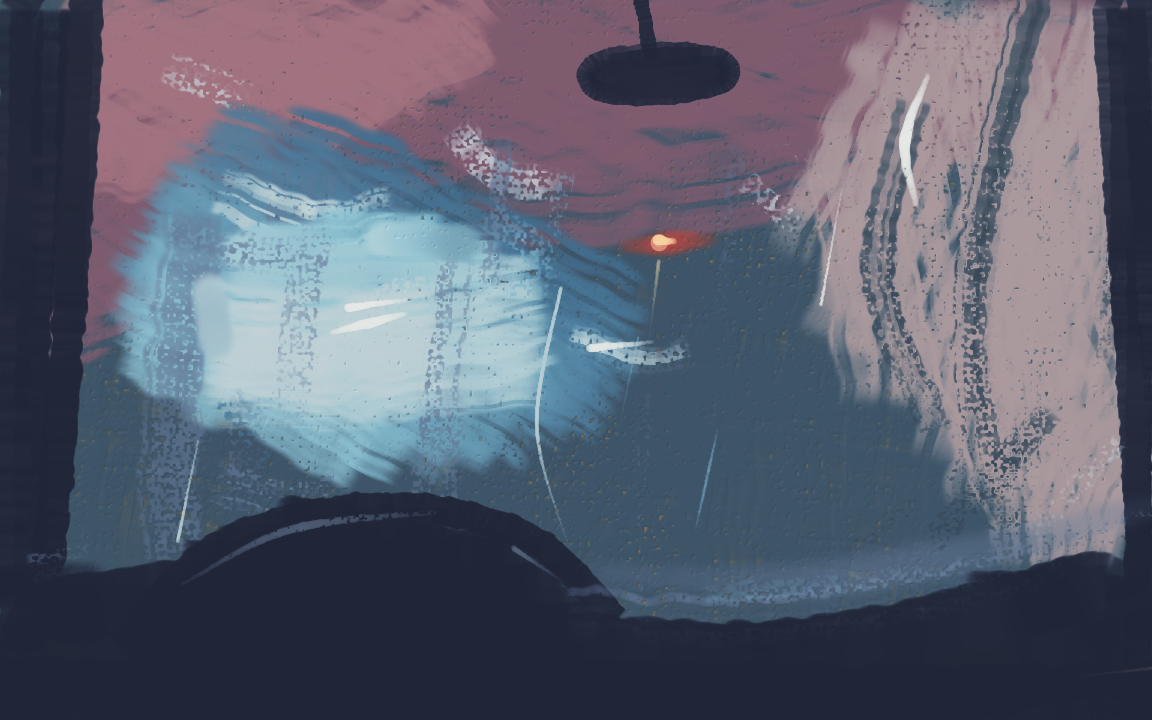
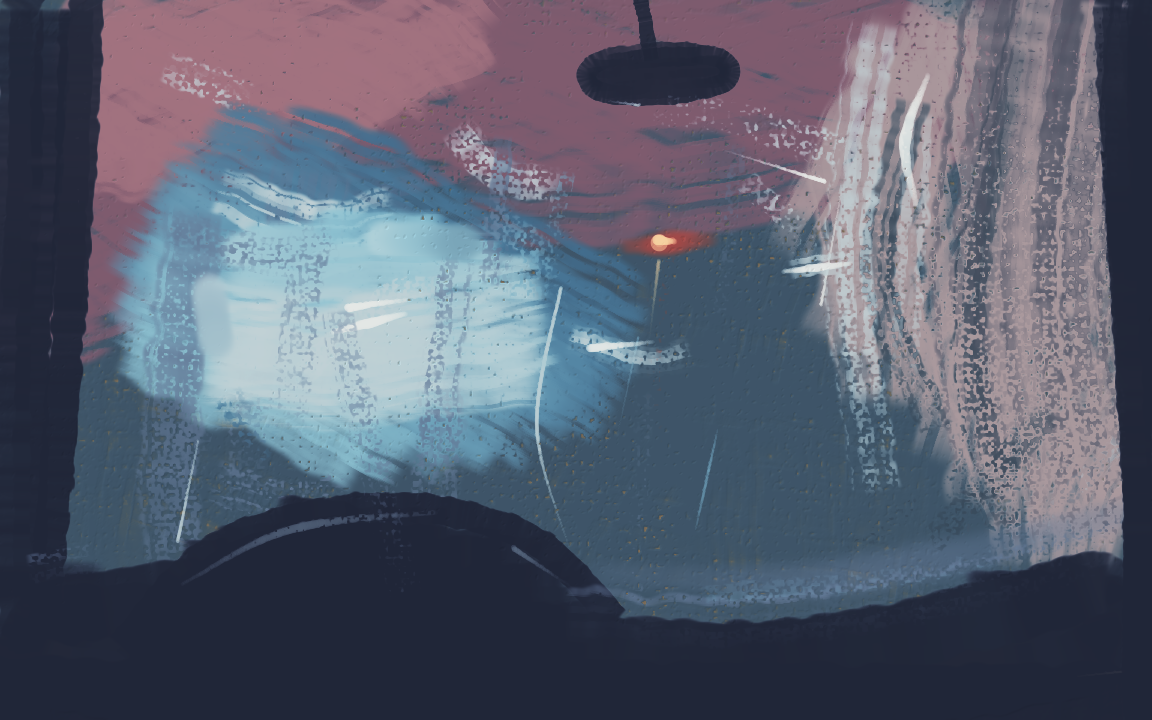
Resume the car wash painting: give the brush form
It stopped at 185 strokes with 115 in hand, having named the brush as its
weakest passage and given it four more marks. Five passes and twenty-one
strokes later it is 206 of 300.

Measured across it, the committed brush read 0.53 0.59 0.58 0.51 0.56 0.60 at
the top and the same flat noise in the middle: a range of 0.09, under the
threshold at which anything reads as a separation. Its light and dark were
distributed as stripes and not as form, which is why it looked like a curtain.

A scumble across the whole mass buried the strip-gaps into a smooth wash, and a
ramp at low opacity and a starved load laid almost nothing. What worked was a
bristle pushed hard, because a comb cannot bury: it leaves the old paint showing
between its streaks however high the opacity goes, which is the one tool property
that lets form go on over texture without replacing it.

compare() then caught what the eye had not. At a 0.22 range the shadow side sat
0.09 from the tunnel behind it and the mass had begun to merge with the glass.
Compressed back to about 0.15, both separations hold. Form is bounded at both
ends, and that is now guide item 8 in SUGGESTIONS.md.

Also: foam thrown off the leading edge so something in the picture moves, a
contact smear so the glass reads as a plane the brush is touching, and one water
sheet that wanders the other way. The outer form pass ran across the right
pillar, so the pillar goes back on top in the same pass.
[…]

diff --git a/paintings/car_wash/p13_form.py b/paintings/car_wash/p13_form.py
@@ -1,0 +1,45 @@
+# The brush was the weakest passage in the finished picture, and there were 115 strokes
+# in hand. Measured across it, the committed canvas read 0.53 0.59 0.58 0.51 0.56 0.60
+# at the top and the same flat noise in the middle: light and dark distributed as
+# stripes, with no form at all. That is why it read as a curtain rather than a cylinder.
+#
+# Two things were tried and thrown away first. A scumble across the whole mass buried
+# the strip-gaps into a smooth wash, and the strips are the best thing here. A ramp at
+# low opacity and a starved load laid almost nothing -- 0.62 to 0.56 across the whole
+# width. What works is a bristle pushed hard: a comb cannot bury, it leaves the old
+# paint showing between its streaks however high the opacity goes, so form can go on
+# over texture without replacing it.
+import numpy as np
+def prof(tag):
+    v = s.canvas.rgb @ np.array([0.2126, 0.7152, 0.0722])
+    v = np.where(v <= 0.0031308, v*12.92, 1.055*np.power(np.maximum(v,1e-9),1/2.4)-0.055)
+    h, w = v.shape
+    for y0, y1, ytag in [(0.05, 0.25, "top"), (0.30, 0.50, "middle"), (0.52, 0.72, "low")]:
+        print(f"  {tag:6s} {ytag:6s} " + " ".join(
+            f"{x:.2f}:{v[int(y0*h):int(y1*h), int(x*w)-12:int(x*w)+12].mean():.2f}"
+            for x in (0.74, 0.78, 0.82, 0.86, 0.90, 0.94)))
+prof("before")
+
+# The turning side. lift_off so each pass is heaviest at the top, where the arch light
+# makes the form read, and trails away at the bottom where the mass is meant to dissolve
+# into the dash -- the low band already ramped the other way and that merge is right.
+for x, op, size in [(0.848, 0.35, 0.046), (0.888, 0.55, 0.046),
+                    (0.926, 0.68, 0.044), (0.966, 0.78, 0.042)]:
+    s.stroke([(x + 0.016, -0.04), (x - 0.018, 0.38), (x + 0.012, 0.74)],
+             "bristle", "brush_sh", size=size, opacity=op, load=0.85, pressure="lift_off")
+
+# The leading edge, the side facing the bloom.
+s.stroke([(0.757, 0.04), (0.737, 0.38), (0.763, 0.68)], "bristle", "foam",
+         size=0.044, opacity=0.52, load=0.85, pressure="swell")
+s.stroke([(0.797, 0.16), (0.783, 0.52)], "bristle", "foam",
+         size=0.030, opacity=0.32, load=0.80, pressure="taper")
+prof("after")
+
+# The outer pass runs to x 0.987 and the right pillar's edge sits at 0.951, so paint has
+# been laid across the pillar. It goes back on top because it is nearer: this is the
+# "keep each mass in its own function and re-run the stack in depth order" repair, and
+# it is why the masses are functions in prelude.py at all.
+s.paint({"shape": pillar_r(), "brush": "flat", "color": "frame", "size": 0.024,
+         "direction": "axis", "density": 1.0, "load": 1.0, "load_falloff": 0.0,
+         "edge": "clean"})
+print(s.look())

diff --git a/paintings/car_wash/p14_recover.py b/paintings/car_wash/p14_recover.py
@@ -1,0 +1,25 @@
+# compare() put the brush at -0.12 against its written value after the form went on, and
+# that is not bookkeeping: the shadow side had come down to 0.41 against a tunnel at
+# 0.32, nine hundredths apart, so the mass was starting to merge with the glass behind
+# it. The form was right and too deep. A ramp only has to clear 0.10 to read as form;
+# past that it spends the mass's separation from what is behind it, which is the more
+# expensive thing. So the range is compressed, not removed -- two bristle passes lifting
+# the shadow side back toward 0.51 and leaving the lit edge where it is.
+import numpy as np
+def prof(tag):
+    v = s.canvas.rgb @ np.array([0.2126, 0.7152, 0.0722])
+    v = np.where(v <= 0.0031308, v*12.92, 1.055*np.power(np.maximum(v,1e-9),1/2.4)-0.055)
+    h, w = v.shape
+    print(f"  {tag:6s} " + " ".join(
+        f"{x:.2f}:{v[int(0.05*h):int(0.50*h), int(x*w)-12:int(x*w)+12].mean():.2f}"
+        for x in (0.74, 0.78, 0.82, 0.86, 0.90, 0.94)))
+prof("before")
+s.stroke([(0.906, -0.04), (0.884, 0.34), (0.910, 0.70)], "bristle", "brush_lt",
+         size=0.050, opacity=0.46, load=0.80, pressure="lift_off")
+s.stroke([(0.962, 0.00), (0.944, 0.36), (0.966, 0.68)], "bristle", "brush_lt",
+         size=0.044, opacity=0.42, load=0.75, pressure="lift_off")
+prof("after")
+s.paint({"shape": pillar_r(), "brush": "flat", "color": "frame", "size": 0.024,
+         "direction": "axis", "density": 1.0, "load": 1.0, "load_falloff": 0.0,
+         "edge": "clean"})
+print(s.compare(PLAN))

diff --git a/paintings/car_wash/p16_contact.py b/paintings/car_wash/p16_contact.py
@@ -1,0 +1,14 @@
+# The picture never said the glass was a plane, or that the brush was touching it --
+# the brush could have been three metres away. Where it presses, foam is smeared flat
+# against the screen: nearer than everything else, so harder-edged and in focus while
+# the mass behind it is not.
+#
+# First attempt was three elongated marks and made four bright horizontal streaks
+# stacked down the leading edge with the throw above them. The contact has to differ in
+# character from the throw, not just in position: the throw is a sweep, this is
+# compressed, so it is short and broad where they are long and thin.
+s.stroke([(0.686, 0.369), (0.733, 0.359)], "bristle", "foam",
+         size=0.026, load=0.80, opacity=0.82, pressure="swell")
+s.stroke([(0.681, 0.377), (0.739, 0.366)], "round_hard", "foam_hi",
+         size=0.008, opacity=0.88, pressure=[0.35, 1.0, 0.25])
+print(s.look())

diff --git a/paintings/car_wash/p15_throw.py b/paintings/car_wash/p15_throw.py
@@ -1,0 +1,13 @@
+# Nothing in this picture was moving: the brush stood beside the glass rather than
+# acting on it. Six small marks were tried here first and vanished at picture scale --
+# being careful, not being quiet. Four bigger ones instead, thrown up into the arch
+# where there is already activity rather than across the quiet passage lower down.
+s.stroke([(0.728, 0.212), (0.648, 0.168), (0.572, 0.152)], "bristle", "foam",
+         size=0.030, load=0.50, opacity=0.72, pressure="lift_off")
+s.stroke([(0.734, 0.352), (0.672, 0.330)], "bristle", "foam",
+         size=0.020, load=0.42, opacity=0.60, pressure="taper")
+s.stroke([(0.716, 0.252), (0.628, 0.208)], "liner", "foam_hi",
+         size=0.0045, pressure=[1.0, 0.12])
+s.stroke([(0.556, 0.146), (0.528, 0.140)], "liner", "foam",
+         size=0.0035, opacity=0.65, pressure="lift_off")
+print(s.look())

diff --git a/paintings/car_wash/prelude.py b/paintings/car_wash/prelude.py
@@ -26,6 +26,7 @@ def mixtures(verbose=False):
     p["frame_lt"] = V(p.mix(cool_black, "burnt_sienna", 0.25), 0.27, n("frame_lt"))
     p["brush_dk"] = V(p.mix(cool_black, "viridian", 0.22), 0.26, n("brush_dk"))
     p["brush_lt"] = V(p.desaturate(magenta, 0.55), 0.62, n("brush_lt"))
+    p["brush_sh"] = V(p.desaturate(p.mix(teal, magenta, 0.30), 0.20), 0.32, n("brush_sh"))
     p["tunnel"]   = V(teal, 0.32, n("tunnel"))          # the wet dark beyond
     p["haze"]     = V(haze, 0.46, n("haze"))            # soap fog on the glass
     p["mag_lo"]   = V(magenta, 0.40, n("mag_lo"))

diff --git a/paintings/car_wash/p17_cross.py b/paintings/car_wash/p17_cross.py
@@ -1,0 +1,7 @@
+# The last of the weaknesses this painting's own notes named: six water sheets all
+# leaning the same way. That is what water on a raked screen does, so the answer is not
+# to re-lay them -- it is one that wanders the other way and crosses them, which is also
+# what water does. One mark, over the bloom's lower edge and out into the dark below it.
+s.stroke([(0.292, 0.436), (0.324, 0.642), (0.352, 0.822)], "bristle", "haze",
+         size=0.030, load=0.60, opacity=0.34, pressure="swell")
+print(s.look())

diff --git a/paintings/car_wash/NOTES.md b/paintings/car_wash/NOTES.md
@@ -9,12 +9,12 @@ side. Everything outside the glass is dissolved; nothing in it has a hard edge e
 the things inside the car.
 
 - Canvas 1152×720, linen, `umber_wash` ground, seed 23.
-- **185 strokes** of a 300 budget, plus one signature mark that did not count.
+- **206 strokes** of a 300 budget, plus one signature mark that did not count.
 - Final painting: `painting.png`. Time-lapse: `painting.gif`.
 - `prelude.py` holds the palette, the masses as shapes, and the written value plan;
-  `p1_far.py` … `p12_sign.py` are the painting in order. Against a fresh
+  `p1_far.py` … `p17_cross.py` are the painting in order. Against a fresh
   `easel new painting.easel --size 1152x720 --texture linen --ground umber_wash
-  --seed 23 --budget 300` those fourteen passes reproduce `painting.png`
+  --seed 23 --budget 300` those nineteen passes reproduce `painting.png`
   **byte for byte** — verified by sha256. `p0_plan.py`, `p0b_preview.py` and
   `check.py` paint nothing and are not part of that sequence.
 
@@ -45,13 +45,13 @@ that sheet in all five places, worst `-0.07`.
 
 | Stage | Strokes | Share |
 |---|---|---|
-| Far masses: the tunnel field and the foam arch | 54 | 29% |
-| The glass: bloom, stop light, water, rivulets, foam, edges, reflection, finishing | 65 | 35% |
-| The brush | 23 | 12% |
-| The near frame: pillars, mirror, dash, hood, wheel | 43 | 23% |
+| Far masses: the tunnel field and the foam arch | 54 | 26% |
+| The glass: bloom, stop light, water, rivulets, foam, edges, reflection, finishing | 66 | 32% |
+| The brush: mass, strips, form, throw, contact | 43 | 21% |
+| The near frame: pillars, mirror, dash, hood, wheel | 43 | 21% |
 
 The subject — the glass and what happens on and through it — was reached at stroke 54:
-29% of the strokes actually spent, 18% of the budget. The near frame went on last
+26% of the strokes actually spent, 18% of the budget. The near frame went on last
 because it is nearest, which is the same thing as spending the last third on the
 surroundings.
 
@@ -63,8 +63,8 @@ the box its bend sweeps out; as a `stroke` along the same path it is 1.
 
 ## Rehearsing, and what it saved
 
-Twenty-seven rehearsals, none of them charged. Everything below was found on a copy
-of the canvas and thrown away before it cost anything:
+Thirty-eight rehearsals across both sittings, none of them charged. Everything below
+was found on a copy of the canvas and thrown away before it cost anything:
 
 - The first arch was **two horizontal bands** with a hard edge between them — the
   picture was a landscape. Rebuilt with an oblique boundary that also comes down the
@@ -121,19 +121,67 @@ scumble laid on top had quietly put it behind. After that all five places were i
 - The stop light is a sideways smear with its core off the middle of it, and it bleeds
   down the wet glass, so it is part of the picture rather than a dot sitting in it.
 
+## Resumed: the brush, and what the second sitting found
+
+The painting stopped the first time at 185 strokes with 115 in hand, having named the
+brush as its weakest passage and given it four more marks. That is the failure the
+guide does not warn about — it warns at length against spending too much on detail and
+against reaching the subject too late, and says nothing about stopping early. Five more
+passes went on afterwards.
+
+**The brush had no form, and the number said so before the eye did.** Measured across
+it, the committed canvas read `0.53 0.59 0.58 0.51 0.56 0.60` at the top and the same
+flat noise in the middle: a range of `0.09`, under the threshold at which anything
+reads as a separation. Its light and dark were distributed as *stripes*, not as form,
+which is exactly why it looked like a curtain and not a cylinder.
+
+Two attempts were thrown away. A `scumble` across the whole mass graded it correctly
+and buried the strip-gaps into a smooth wash — the strips are the best thing in that
+passage. A ramp at low opacity and a starved load laid almost nothing, moving the whole
+width from `0.62` to `0.56`. What worked was a bristle pushed hard: **a comb cannot
+bury.** It leaves the old paint showing between its streaks however high the opacity
+goes, which is the one tool property that lets form go on over texture without
+replacing it. Four passes with the *opacity* stepping rather than the colour took the
+top band to a `0.22` fall.
+
+**And then `compare()` caught the thing the eye had not.** At a `0.22` range the brush's
+shadow side sat at `0.41` against a tunnel at `0.32` — nine hundredths apart, so the
+mass had begun to merge with the glass behind it. The form was right and too deep. A
+ramp only has to clear `0.10` to read as form; past that it spends the mass's
+separation from what is behind it, which is the more expensive thing. Two passes
+compressed the range back to about `0.15` and the plan came back inside tolerance.
+
+That is the finding worth keeping from the second sitting, and it is not in the guide:
+**form is bounded at both ends.** Under `0.10` it does not read; far over it, the mass
+stops being a mass.
+
+The rest was about the picture rather than about the brush. Nothing in it was moving,
+so foam is thrown off the leading edge — six small marks first, which vanished at
+picture scale because they were careful rather than quiet, then four bigger ones.
+Nothing said the glass was a plane or that the brush was touching it, so foam is
+smeared flat against the screen at the leading edge's bulge, in focus where the mass
+behind it is not, and compressed where the throw is swept, because a contact that is
+another long streak is just a fourth streak. And one water sheet now wanders the other
+way and crosses the others.
+
+The outer form pass ran to `x 0.987` and the right pillar's edge sits at `0.951`, so
+the pillar had paint laid across it and goes back on top in the same pass. That is the
+*keep each mass in its own function and re-run the stack in depth order* repair, and it
+is the reason every mass in `prelude.py` is a function.
+
 ## What still bothers me
 
-- The six water sheets all lean the same way. That is what water on a raked screen
-  does, and they vary in width, length and opacity, but it is the nearest thing in the
-  picture to a repeated mark.
 - The boundary between the arch light and the tunnel still runs close to horizontal
-  across the middle of the canvas. Three marks were laid across it in `p9` and the
-  stop light sits on it, which is what stops it reading as a waterline — but it is
-  held rather than solved.
-- The brush wanted rotation and got four splayed strips in the last pass. It reads as
-  a spinning thing now; it did not before, and one more pass would have helped it.
-- 115 strokes went unspent. Some of that is the rehearsals doing their job. Some of it
-  is the brush.
+  across the middle of the canvas. Four marks cross it now and the stop light sits on
+  it, which is what stops it reading as a waterline — but it is held rather than
+  solved.
+- The upper left is the flattest passage left: a soft magenta field with one foam smear
+  in it. I judge it a quiet passage rather than an unfinished one, because it reads as
+  what it is — diffuse light — where the brush read as something it was not. **That is
+  the same judgement this painting got wrong the first time**, so weigh it accordingly.
+- 94 strokes unspent, and this time I can say what they would buy. The honest answer is
+  that the next thing I would do is the horizontal boundary, and I do not know how to
+  do it without adding clutter to a picture that is already busy on the right.
 
 ## The signature
 
@@ -145,3 +193,9 @@ separate times, is that a mark which ends inside a picture leaves an edge nobody
 — the chisel end of a flat, the capsule of a short round stroke, the disc of a dab.
 A signature that exits the frame is the one mark in the picture that refuses to have
 an end. It is not a name, it is not a title, and it repairs nothing.
+
+It was laid at stroke 185, and then the painting was resumed and twenty-one more marks
+went on after it. A second signature was not added: the guide allows five and calls
+them a limit rather than a target, and a mark laid to re-close a picture that had
+already been closed once would be a correction wearing a hat, which is the one thing
+the guide says a signature must not be. The mark stands where it was put.

diff --git a/SUGGESTIONS.md b/SUGGESTIONS.md
@@ -250,8 +250,10 @@ before I made them.
 # Suggestions from a second session
 
 These come from a second session: the inside of a car wash seen from the driver's seat,
-painted from `PAINTER.md` with no reference photograph, through the shell path, in 185
+painted from `PAINTER.md` with no reference photograph, through the shell path, in 206
 strokes of a 300 budget. The painting and its scripts are in `paintings/car_wash/`.
+Everything below was written at 185 strokes; the painting was then resumed, and the one
+finding that produced is guide item 8.
 
 **This session is not a clean measurement of the guide, and the difference matters.**
 The subject was chosen before anything was read, but `README.md`, `LESSONS.md` and
@@ -425,6 +427,14 @@ In the order of how many strokes each would have saved me.
    I finished with **115 of 300 strokes unspent**, having already named the weakest
    passage in my own notes and then given it four more strokes. Proposed: *"You have
    named the weakest passage. How many strokes are left? Spend them there."*
+
+   **This one was then tested rather than left as a proposal.** The painting was resumed
+   and the rule followed literally: twenty-one strokes into the passage the notes had
+   named, which is where item 8 came from. It is the only item in either session's list
+   that has been run rather than argued, and the thing it found — that the eye and
+   `compare()` each caught half of what was wrong — is not something a fourteenth
+   checklist line predicts. Worth more than my confidence in it: a fresh session should
+   still be the judge.
 5. **The lightest mass is a composition question that `compare()` answers by accident.**
    `compare()` told me the bloom was `0.12` below plan. What it was really reporting was
    that a different mass had become the brightest thing in the picture and the eye went
@@ -450,11 +460,26 @@ In the order of how many strokes each would have saved me.
    example and already carry that risk, unread. So: is `paintings/` meant to serve this,
    with the guide pointing at it — or is the sequencing meant to be worked out fresh
    every time, and the exercises deliberately abstract to keep it that way?
+8. **Form is bounded at both ends, and the guide gives only the lower bound.** The
+   `0.10` threshold appears everywhere as the point below which two masses stop reading
+   as separate, and it is right. Nothing says what happens *above* it. Measured on this
+   painting's weakest mass: flat at a range of `0.09` across its width it read as a
+   curtain rather than a cylinder, so form was laid until the range was `0.22` — at
+   which point its shadow side sat `0.09` from the mass *behind* it and the two began to
+   merge. Compressed back to about `0.15`, both separations hold. So a mass has a
+   window, not a floor: **shade it until the form clears `0.10`, and stop, because past
+   that the range is spent on the mass's separation from what it stands against.** One
+   line, and the natural home is beside the existing threshold paragraph in step 3
+   rather than as a new section.
+
+   Worth noting how it was found, because it is the case the guide's two-`compare()`
+   rhythm is not built for: the eye said the form was good, and the number said the mass
+   had stopped separating from its background. Neither would have caught it alone.
 
 ## What I would not change
 
 The plan object shared by `cost`, `preview`, `rehearse` and `paint`. It is the best
-thing in the engine: twenty-seven rehearsals, none of them charged, and a painting that
+thing in the engine: thirty-eight rehearsals, none of them charged, and a painting that
 re-runs from its own pass scripts byte for byte. Everything that went wrong in this
 painting went wrong on a copy of the canvas and cost nothing — a bloom that came back as
 a daisy, foam that came back as a row of discs, a frame that came back as stepped
